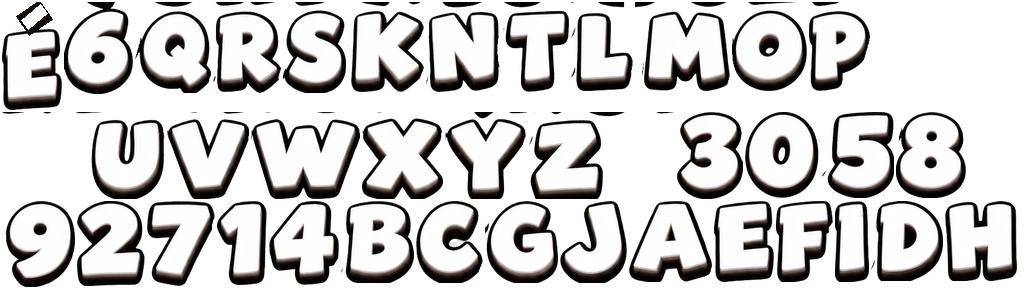
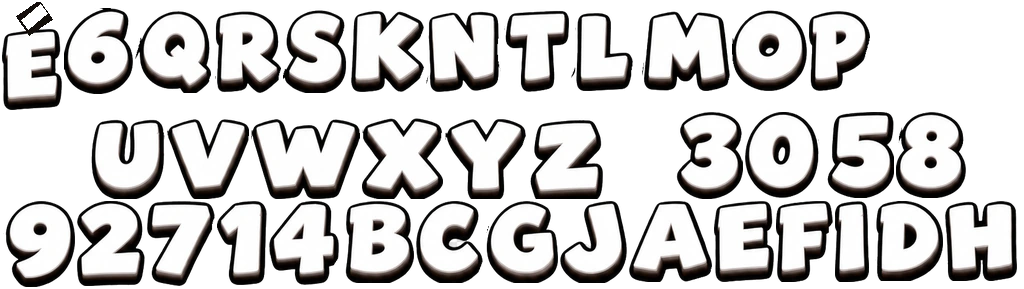
Jeu en ligne vérifié à deux joueurs, police de combat nettoyée, finitions
- le profil n'est publié qu'une fois le pseudo choisi (plus de joueurs fantômes dans le classement)
- l'identifiant du joueur est gardé dès la première visite
- police bitmap : lettres U et Z recadrées, petites taches retirées
- chiffres de dégâts plus lisibles, astuce de l'écran de chargement recalée
- service worker : images servies tout de suite puis rafraîchies en arrière-plan

Claude-Session: https://claude.ai/code/session_011Z415uF2vY68G8wrVYxtZS

diff --git a/src/ui/battle.js b/src/ui/battle.js
@@ -204,8 +204,8 @@ function onEvents(evs) {
       }
       if (e.crit) { sfx.crit(); V.burst('star_big', q.x, q.y - 50, 5, { s: 0.3, sp0: 140, sp1: 320, up: 120 }); B.stop = 0.07; }
       if (e.kind === 'special') { B.stop = 0.09; V.burst('star_big', q.x, q.y - 50, 4, { s: 0.26, up: 100 }); }
-      const size = e.kind === 'splash' ? 22 : e.kind === 'aoe' ? 28 : e.kind === 'special' ? 46 : 32;
-      V.text(e.amount, q.x + rand(-22, 22), q.y - 96 + rand(-8, 8), { size: size * (e.crit ? 1.4 : 1), tint: e.crit ? 'yellow' : e.kind === 'special' || e.kind === 'aoe' ? 'orange' : mine ? 'red' : 'white', vx: rand(-30, 30), life: e.kind === 'splash' ? 0.55 : 0.85, vy: -130, pop: e.crit || e.kind === 'special' ? 1.4 : 1 });
+      const size = e.kind === 'splash' ? 19 : e.kind === 'aoe' ? 24 : e.kind === 'special' ? 40 : 27;
+      V.text(e.amount, q.x + rand(-26, 26), q.y - 100 + rand(-14, 10), { size: size * (e.crit ? 1.35 : 1), tint: e.crit ? 'yellow' : e.kind === 'special' || e.kind === 'aoe' ? 'orange' : mine ? 'red' : 'white', vx: rand(-30, 30), life: e.kind === 'splash' ? 0.55 : 0.85, vy: -130, pop: e.crit || e.kind === 'special' ? 1.4 : 1 });
     } else if (e.type === 'aoe') {
       const q = toPx(e.x, e.y);
       V.fx('dust_ring', q.x, q.y + 6, { s0: 0.5, s1: 1.9, life: 0.45, flat: 0.62, a: 0.9 }); V.decal('crater2', q.x, q.y + 10, 5, 0.75);

diff --git a/sw.js b/sw.js
@@ -1,6 +1,6 @@
 // Beast Brawl! — service worker : le jeu reste jouable hors ligne une fois chargé.
 // Code (html, js, css) : réseau d'abord, pour recevoir les mises à jour tout de suite ; cache si hors ligne.
-// Images, sons, polices : cache d'abord (ils changent rarement), réseau sinon.
+// Images, sons, polices : la copie gardée d'abord (affichage immédiat), rafraîchie en arrière-plan.
 const VERSION = 'bb-v1';
 
 self.addEventListener('install', () => self.skipWaiting());
@@ -17,10 +17,10 @@ self.addEventListener('fetch', (e) => {
     const cache = await caches.open(VERSION);
     if (isAsset) {
       const hit = await cache.match(req);
-      if (hit) return hit;
-      const res = await fetch(req);
-      if (res.ok && res.status === 200) cache.put(req, res.clone());
-      return res;
+      // on sert tout de suite la copie gardée, et on la rafraîchit en arrière-plan pour le prochain lancement
+      const fresh = fetch(req, { cache: 'no-cache' }).then((res) => { if (res.ok && res.status === 200) cache.put(req, res.clone()); return res; });
+      if (hit) { e.waitUntil(fresh.catch(() => {})); return hit; }
+      return fresh;
     }
     try {
       const res = await fetch(req, { cache: 'no-cache' });

diff --git a/styles/base.css b/styles/base.css
@@ -127,5 +127,5 @@ body.debug .hit{outline:3px solid rgba(255,0,60,.8);background:rgba(255,0,60,.15
 .ld-fill{width:0;height:100%;background:linear-gradient(#ffe45c,#ffb21e 55%,#f08a0c);box-shadow:inset 0 6px 0 rgba(255,255,255,.55),inset 0 -8px 0 rgba(160,70,0,.4);transition:width .25s ease-out;position:relative;overflow:hidden}
 .ld-fill::after{content:'';position:absolute;inset:0;background:linear-gradient(110deg,transparent 30%,rgba(255,255,255,.55) 50%,transparent 70%);background-size:300% 100%;animation:ldShine 1.3s linear infinite}
 @keyframes ldShine{from{background-position:150% 0}to{background-position:-150% 0}}
-.ld-text{position:absolute;left:0;right:0;top:1548px;text-align:center;font-size:40px}
-.ld-tip{position:absolute;left:60px;right:60px;top:1604px;text-align:center;font-size:27px;color:var(--cream);white-space:normal;-webkit-text-stroke-width:5px;text-shadow:0 3px 0 var(--ink)}
+.ld-text{position:absolute;left:0;right:0;top:1532px;text-align:center;font-size:40px}
+.ld-tip{position:absolute;left:50px;right:50px;top:1590px;text-align:center;font-size:25px;line-height:1.15;color:var(--cream);white-space:normal;-webkit-text-stroke-width:5px;text-shadow:0 3px 0 var(--ink)}

diff --git a/src/online/net.js b/src/online/net.js
@@ -58,11 +58,11 @@ export const Net = {
   // Au démarrage : on publie le profil et on revient régulièrement signaler sa présence
   async init() {
     if (!cfg.url) return false;
-    try { await Net.pushProfile(true); setInterval(() => { if (!document.hidden) Net.pushProfile(true); }, 60000); return true; } catch (e) { console.warn('jeu en ligne indisponible :', e.message); return false; }
+    try { if (S.name) await Net.pushProfile(true); else await get('players/' + S.uid + '/name'); setInterval(() => { if (!document.hidden) Net.pushProfile(true); }, 60000); return true; } catch (e) { console.warn('jeu en ligne indisponible :', e.message); return false; }
   },
   // Publie le profil (regroupé : au plus une fois toutes les 3 s)
   pushProfile(now) {
-    if (!cfg.url) return Promise.resolve();
+    if (!cfg.url || !S.name) return Promise.resolve();      // pas de profil publié tant que le joueur n'a pas choisi son pseudo
     const run = async () => {
       lastPush = Date.now();
       await patch('players/' + S.uid, me());

diff --git a/src/core/save.js b/src/core/save.js
@@ -19,6 +19,7 @@ export function load() {
   try {
     const raw = localStorage.getItem(KEY);
     if (raw) { const d = JSON.parse(raw); S = Object.assign(fresh(), d); S.settings = Object.assign(fresh().settings, d.settings || {}); }
+    else localStorage.setItem(KEY, JSON.stringify(S));      // première visite : on garde tout de suite l'identifiant du joueur
   } catch (e) { console.warn('sauvegarde illisible, nouvelle partie', e); S = fresh(); }
   return S;
 }
